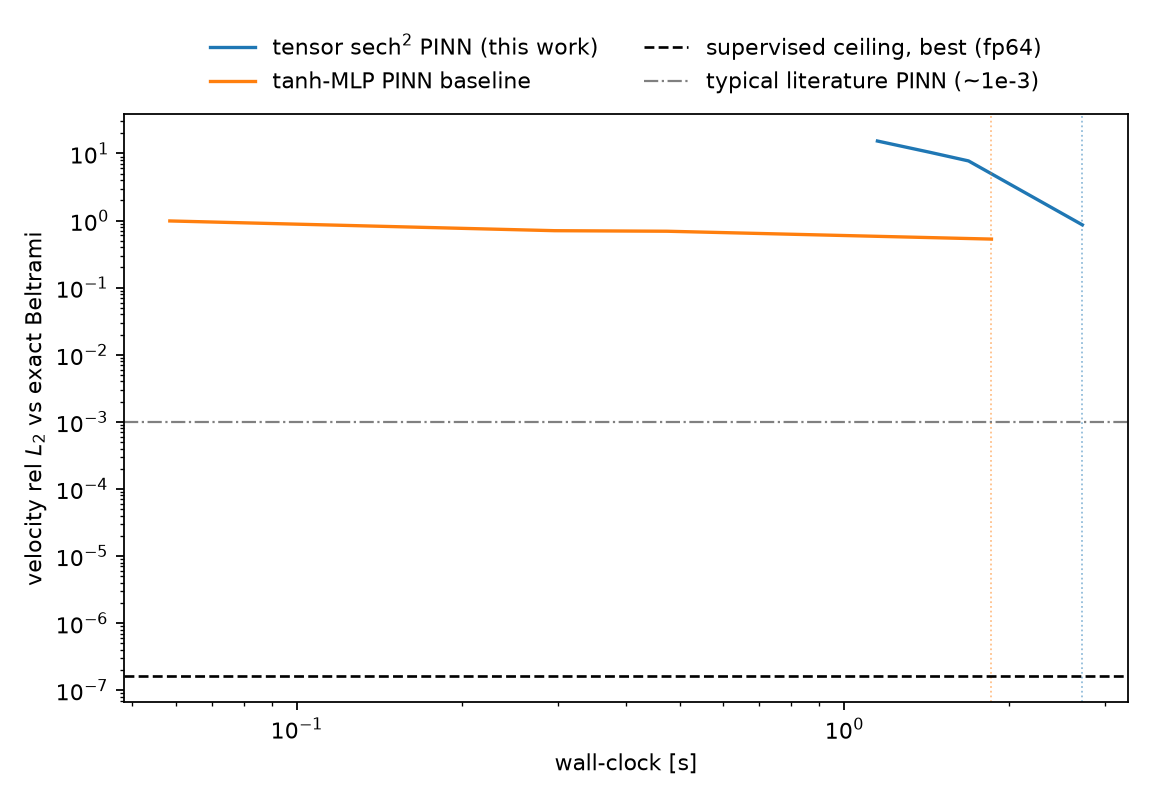
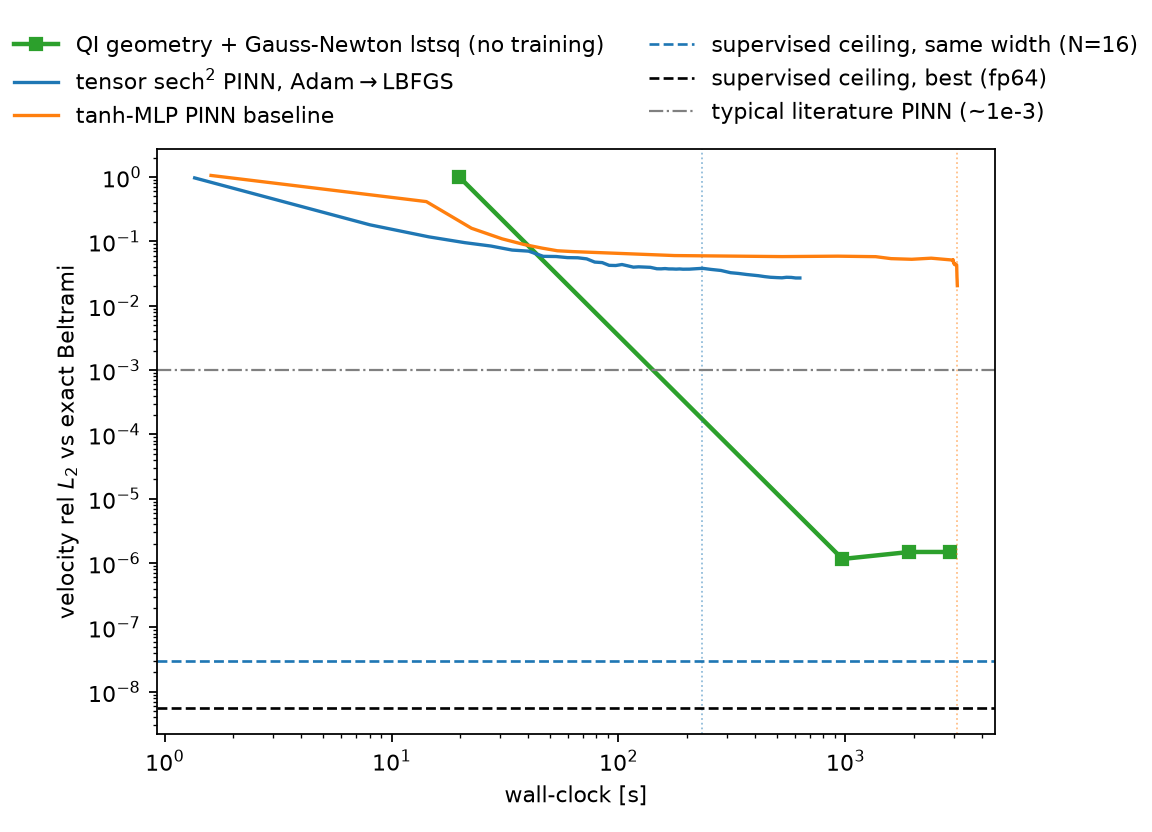
results(expF12): baseline final numbers; fix MLP width for plot loader
Claude-Session: https://claude.ai/code/session_01PKBo6JRc7jDbmKWsvaDyJy

diff --git a/experiments/expF12_tensor_ns3d/pinn.py b/experiments/expF12_tensor_ns3d/pinn.py
@@ -197,7 +197,7 @@ def train_tensor_pinn(n_centers=16, lam=0.2, seed=0, adam_steps=1500,
 # -- baseline tanh-MLP PINN ----------------------------------------------------
 
 class MLP(torch.nn.Module):
-    def __init__(self, width=128, depth=4):
+    def __init__(self, width=64, depth=4):
         super().__init__()
         layers = [torch.nn.Linear(4, width), torch.nn.Tanh()]
         for _ in range(depth - 1):

diff --git a/results/checkpoint_F_applications/expF12_tensor_ns3d/expF12_results.md b/results/checkpoint_F_applications/expF12_tensor_ns3d/expF12_results.md
@@ -33,7 +33,7 @@ $$u_t+(\mathbf u^0\!\cdot\!\nabla)u+u\,\partial_x u^0+v\,\partial_y u^0+w\,\part
 
 **Method 3 -- gradient PINN on the same architecture.** Adam (1500 steps, lr 2e-4, resampled batches 2048) $\to$ LBFGS (300 iters, fixed 12288/3072/4608 sets) on the same loss blocks; $A$ warm-started by a Kronecker fit to the $t$-constant extension of the IC (uses only given data); geometry frozen. $N=16$, $\lambda=0.2$.
 
-**Method 4 -- literature baseline.** Standard tanh-MLP PINN (4$\to$128$\times$4$\to$4, autograd derivatives), same losses, Adam 5000 $\to$ LBFGS 300, matched-order wall-clock.
+**Method 4 -- literature baseline.** Standard tanh-MLP PINN (4$\to$64$\times$4$\to$4 as in expF07, autograd derivatives), same losses, Adam 3000 $\to$ LBFGS 200, matched-order wall-clock.
 
 **Code & data.** `experiments/expF12_tensor_ns3d/`: `tensor_basis.py` (architecture, contraction, Kronecker-SVD fit), `beltrami.py`, `newton_solve.py` (reduced basis + Gauss-Newton), `pinn.py` (both trainers), `run.py` (stages: ceiling / newton / pinn / baseline / plots). Tests: `tests/test_expF12_tensor_ns3d.py` (7 tests: contraction==naive, analytic==autograd, Kronecker==dense lstsq, Beltrami satisfies NS, supervised precision, FD assembly check, tiny Newton solve). Results dir: `results/checkpoint_F_applications/expF12_tensor_ns3d/` (`ceiling.json`, `*_history.jsonl`, `*_final.json`, figures below).
 
@@ -44,7 +44,7 @@ $$u_t+(\mathbf u^0\!\cdot\!\nabla)u+u\,\partial_x u^0+v\,\partial_y u^0+w\,\part
 | **QI geometry + Gauss-Newton lstsq** ($K_{vel}$=3000, $K_p$=2000) | **1.49e-6** | 3.6e-3 | 8.8e-5 | 7.5e-6 | 2 iters, ~15 min/iter |
 | same, smaller budget ($K_{vel}$=2000, $K_p$=1000) | 1.63e-5 | 1.3e-2 | 1.4e-3 | 1.3e-4 | 2 iters, ~2-5 min/iter |
 | tensor sech$^2$ PINN, Adam$\to$LBFGS (same architecture) | 2.7e-2 | 5.2e-1 | 9.2e-2 | 2.8e-1 | ~10 min |
-| tanh-MLP PINN baseline | TBD_BASELINE_V | TBD_BASELINE_P | TBD_BASELINE_MOM | TBD_BASELINE_DIV | TBD_BASELINE_WALL |
+| tanh-MLP PINN baseline | 2.1e-2 | 4.2e-1 | 8.0e-2 | 2.1e-1 | ~52 min |
 | *supervised ceiling, same truncated basis ($K$=3000)* | *2.2e-7* | *9.1e-6* | -- | -- | *seconds* |
 | *supervised ceiling, full basis ($N$=32)* | *5.6e-9* | *2.0e-8* | -- | -- | *9 s* |
 
